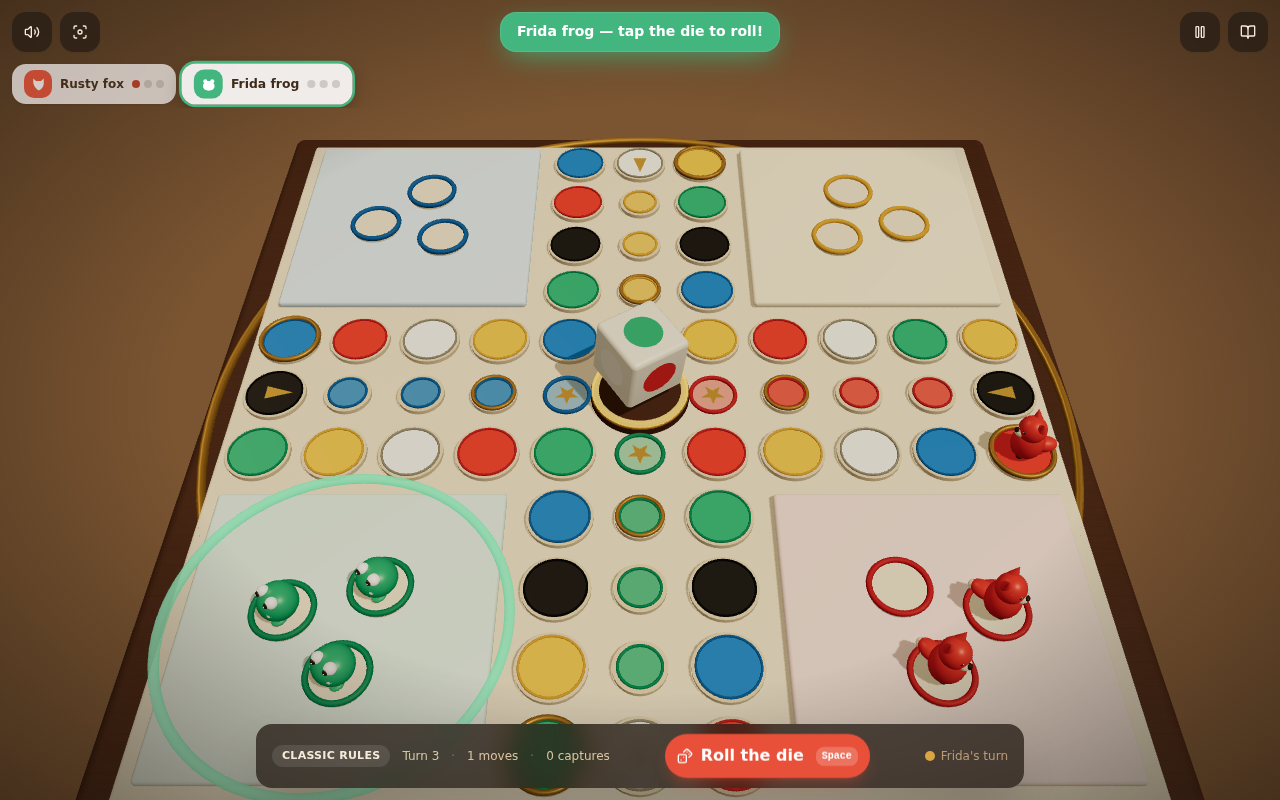
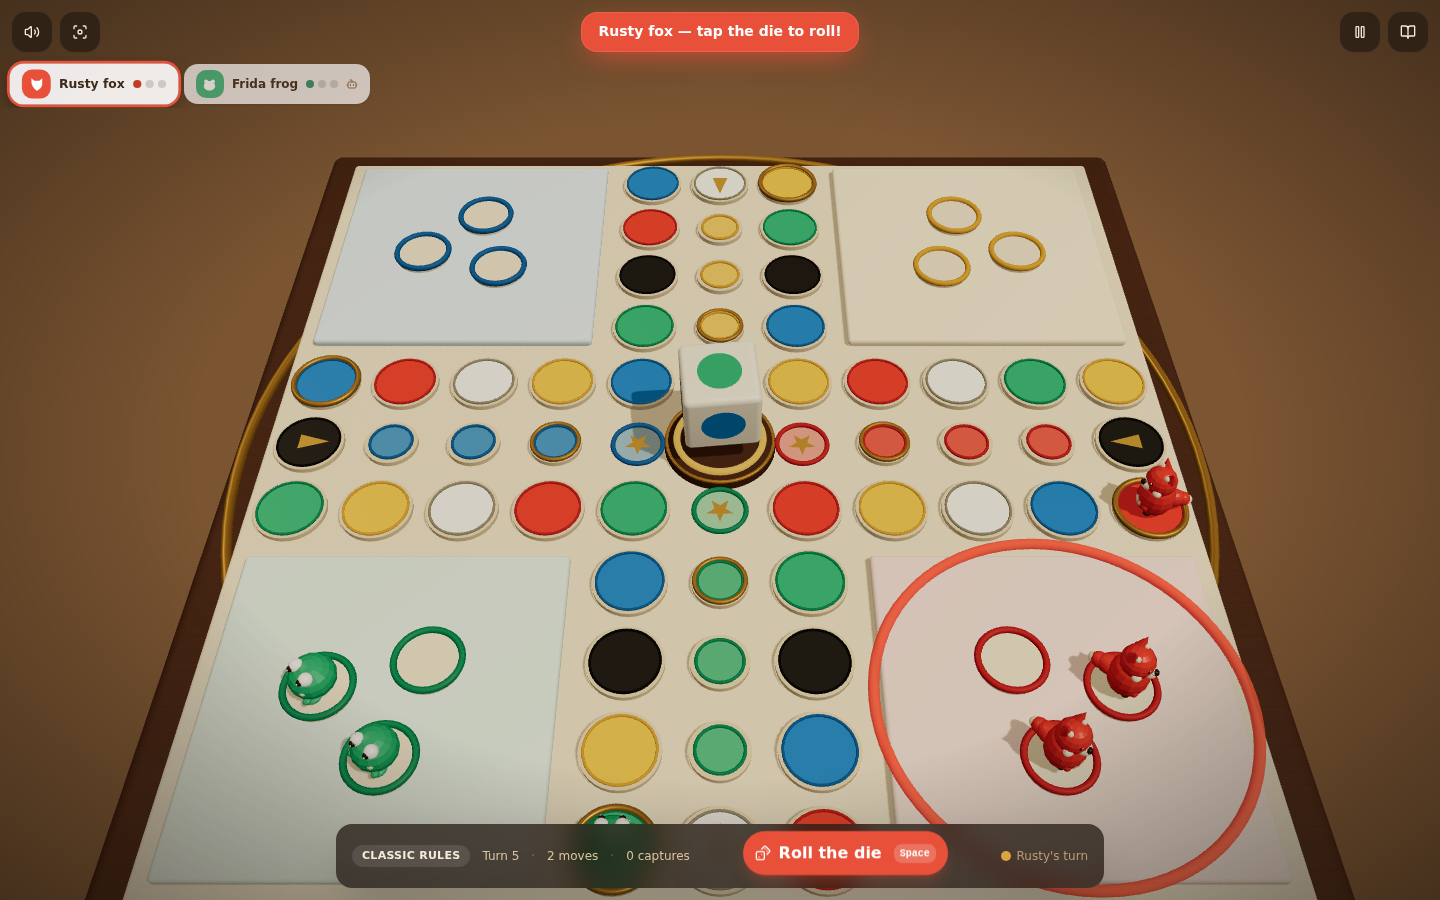
docs: refresh readme and gameplay screenshots

diff --git a/README.md b/README.md
@@ -49,9 +49,19 @@ that follows exactly what a child sees painted on the board.
   explanations and safe preset switching.
 - **Board layouts** — the Classic Official Color Pattern or the Full Random Map
   (every track field and finish slot re-colored, home stretches included).
-- **Seasons & skins** — classic, winter and Christmas themes with weather and
-  scenery, wooden board skins, pawn skins (classic, animal, gem) and color-matched
-  accessories — plus three synthesized sound packs.
+- **Seasons & full customization** — classic, winter, Christmas, Easter and
+  summer themes with weather and scenery; wooden board skins; **platform-tile
+  skins** (smooth classic inlays, faceted low-poly gems, plush cushions,
+  glossy porcelain with golden rims); **dice skins** (ivory classic, wooden
+  toy, crystal, midnight glow); six pawn skins with color-matched accessories.
+  Gameplay colors are never affected — ownership stays instantly readable.
+- **Calm HUD by default** — the play-by-play roll narration ("Frida Frog
+  rolled Blue — no pawn can use it. Turn skipped.") is OFF by default and can
+  be re-enabled from the pause menu ("Roll announcer").
+- **Composed background music** — each of the three synthesized sound packs
+  (Toy shop, Christmas bells, Arcade chip) carries its own hand-written
+  multi-layer tune — chord pad, bass line, lead melody, counter-arp and light
+  percussion — cycling forever from the first tap on the menu onward.
 - **Saved play** — automatic autosave of the running match, last setup restore,
   and a persistent match history backed by a small API + database.
 - **Interactive tutorial** — a "Would you like to take an interactive tutorial?"
@@ -60,10 +70,13 @@ that follows exactly what a child sees painted on the board.
 
 ### Mobile & accessibility
 
-- **Two portrait camera framings** — the kids' *diagonal* diamond and a *straight
-  top-down* view whose board edges butt against the screen sides; both are solved
-  exactly against the perspective projection for any phone aspect and switchable
-  from the in-game HUD. Landscape/desktop keeps the classic three-quarter camera.
+- **Two portrait camera framings** — the kids' *diagonal* diamond (tuned close:
+  the board's corners land at the screen edges so every pawn position fills the
+  view) and a *straight top-down* view whose board edges butt against the screen
+  sides; both are solved exactly against the perspective projection for any
+  phone aspect and switchable from the in-game HUD. The **reset camera view**
+  button always restores the default angled framing (never the overhead one).
+  Landscape/desktop keeps the classic three-quarter camera.
 - **Safe-area aware HUD** — `100dvh`/`100svh` layout, `env(safe-area-inset-*)`
   padding, sticky bottom gameplay bar with reserved status space, no horizontal
   scrolling, and touch targets sized for small hands.
